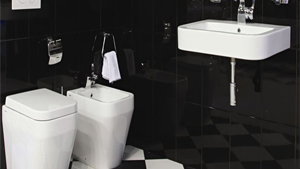
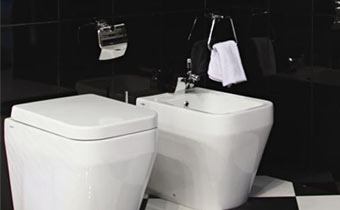
change images size in catalogue

diff --git a/css/screen.css b/css/screen.css
@@ -381,7 +381,7 @@ a:hover { text-decoration: underline; }
 .photogallery__item_small .photogallery__img img { height: 127px; }
 
 .photogallery__img { overflow: hidden; height: 170px; }
-.photogallery__img img { vertical-align: top; width: 100%; height: auto; min-height: 170px; }
+.photogallery__img img { vertical-align: top; width: 100%; height: auto; }
 .photogallery__img:hover { cursor: pointer; }
 
 .photogallery__title { padding: 2px 20px; background: #000; position: absolute; bottom: 0; left: 0; right: 0; }

diff --git a/sass/_block.scss b/sass/_block.scss
@@ -1424,7 +1424,6 @@
 		vertical-align: top;
 		width: 100%;
 		height: auto;
-		min-height: 170px;
 	}
 	&:hover{
 		cursor: pointer;
